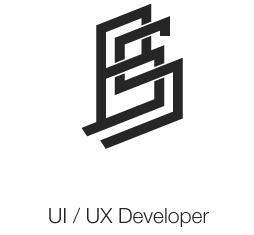
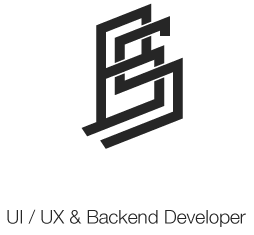
CSS changes
Added css to about section and header

Changed region(s): [[0.0276, 0.8638, 0.9646, 0.983]]

diff --git a/index.html b/index.html
@@ -92,7 +92,7 @@
 									<!-- Front End -->
 									<div class="fourth brd_right">
 										<img src="img/front.png">
-										<h4>Front-end Development</h4>
+										<h4>Front-End Development</h4>
 										<li><p>HTML5</p></li>
 										<li><p>CSS3</p></li>
 										<li><p>Responsive Design</p></li>
@@ -103,7 +103,7 @@
 									<!-- Back End -->
 									<div class="fourth brd_right">
 										<img src="img/db.png">
-										<h4>Back-end Development</h4>
+										<h4>Back-End Development</h4>
 										<li><p>PHP</p></li>
 										<li><p>Python</p></li>
 										<li><p>Mongo DB</p></li>
@@ -134,9 +134,10 @@
 							<div class="column">
 								<div class="aboutinner">
 									<div class="about_left">
-										<p>I'm a UI/UX designer and frontend developer from Pittsburgh, Pa. I create sexy, engaging user experiences for the web. I enjoy keeping up to date with the latest programming technologies &amp; trends to integrate into my own projects. When I am not building in pixels I enjoy making videos with my GoPro, Snowboarding, Biking, Cooking, Reading, Pretending to be a Photogrpher, Drawing, Hiking with my husky Denali and getting my hands dirty with anything mechanical.</p>
+										<p>Hi, My name is Brock Stone I am a UI/UX designer and frontend/backend developer from Pittsburgh, Pa. I create sexy, engaging user experiences for the web. I enjoy keeping up to date with the latest programming technologies &amp; trends to integrate with my own projects. When I am not building in pixels I enjoy making videos with my GoPro, Snowboarding, Biking, Cooking, Reading, Pretending to be a Photogrpher, Drawing, Adv enturing with my husky Denali and getting my hands dirty with anything mechanical. View some of my work below.</p>
 									</div>
 									<div class="about_right">
+										<h5>Check out my Resume and some of my work.</h5>
 										<p><a class="btn-outline-sm2" href="#">View Resume</a></p>
 										<p><a class="btn-outline-sm2" href="#">View  Git Hub</a></p>
 									</div>

diff --git a/css/bsd.css b/css/bsd.css
@@ -156,7 +156,7 @@ button:hover {
 
 }
 #logo{
-	margin-top: 5vh;
+	margin-top: 25px;
 }
 .header h1 {
 	
@@ -198,46 +198,11 @@ nav h2{
 }
 /*
 ----------------------
---------------  ABOUT
-----------------------
-*/
-.about{
-	height: 425px;
-	background-color: #F4F4F4;   /*31A5C8 BLUE*/
-	color: #232323;
-}
-.aboutinner{
-	width: 960px;
-	margin: 0 auto;
-	font-size: 1em;
- 
-}
-.about_left{
-	float: left;
-	width: 560px;
-}
-.about_right{
-	padding-left: 75px;
-	float: right;
-	width: 350px;
-	margin-top: 30px;
-	border-left: 1px solid #303030;
-}
-.about_right p{
-	margin-bottom: 35px;
-}
-.aboutinner p{
-	padding-right: 25px;
-	line-height: 1.6em;
-
-}
-/*
-----------------------
 --------------  ASSETS
 ----------------------
 */
 .assets{
-	height: 670px;
+	height: 615px;
 	background-color: #ffffff;
 }
 .fourth{
@@ -267,7 +232,43 @@ nav h2{
 	height: 430px;
 }
 .brd_right{
-	border-right:1px solid #848484;
+	border-right:1px solid #DDDDDD;
+}
+/*
+----------------------
+--------------  ABOUT
+----------------------
+*/
+.about{
+	height: 425px;
+	background-color: #F4F4F4;   /*31A5C8 BLUE*/
+	/*background: url(../img/bsd_shadow.jpg);*/
+	color: #232323;
+}
+.aboutinner{
+	width: 960px;
+	margin: 0 auto;
+	font-size: 1em;
+ 
+}
+.about_left{
+	float: left;
+	width: 560px;
+}
+.about_right{
+	padding-left: 25px;
+	float: right;
+	width: 350px;
+	text-align: center;
+	border-left: 1px solid #DDDDDD;
+}
+.about_right p{
+	margin-top: 45px;
+	margin-bottom: 45px;
+}
+.aboutinner p{
+	line-height: 1.6em;
+
 }
 /*
 ----------------------

diff --git a/css/component.css b/css/component.css
@@ -66,7 +66,7 @@ body,
 	visibility: hidden;
 	width: 300px;
 	height: 100%;
-	background: #efbb54;
+	background: #606060;
 	-webkit-transition: all 0.5s;
 	transition: all 0.5s;
 }
@@ -114,7 +114,7 @@ body,
 	padding: 1em 1em 1em 1.2em;
 	outline: none;
 	box-shadow: inset 0 -1px rgba(0,0,0,0.2);
-	color: #333333;
+	color: #ffffff;
 	text-transform: uppercase;
 	text-shadow: 0 0 1px rgba(255,255,255,0.1);
 	letter-spacing: 1px;
@@ -130,7 +130,7 @@ body,
 .st-menu ul li a:hover {
 	background: rgba(0,0,0,0.2);
 	box-shadow: inset 0 -1px rgba(0,0,0,0);
-	color: #fff;
+	color: #31A5C8;
 }
 
 /* Navigation */
